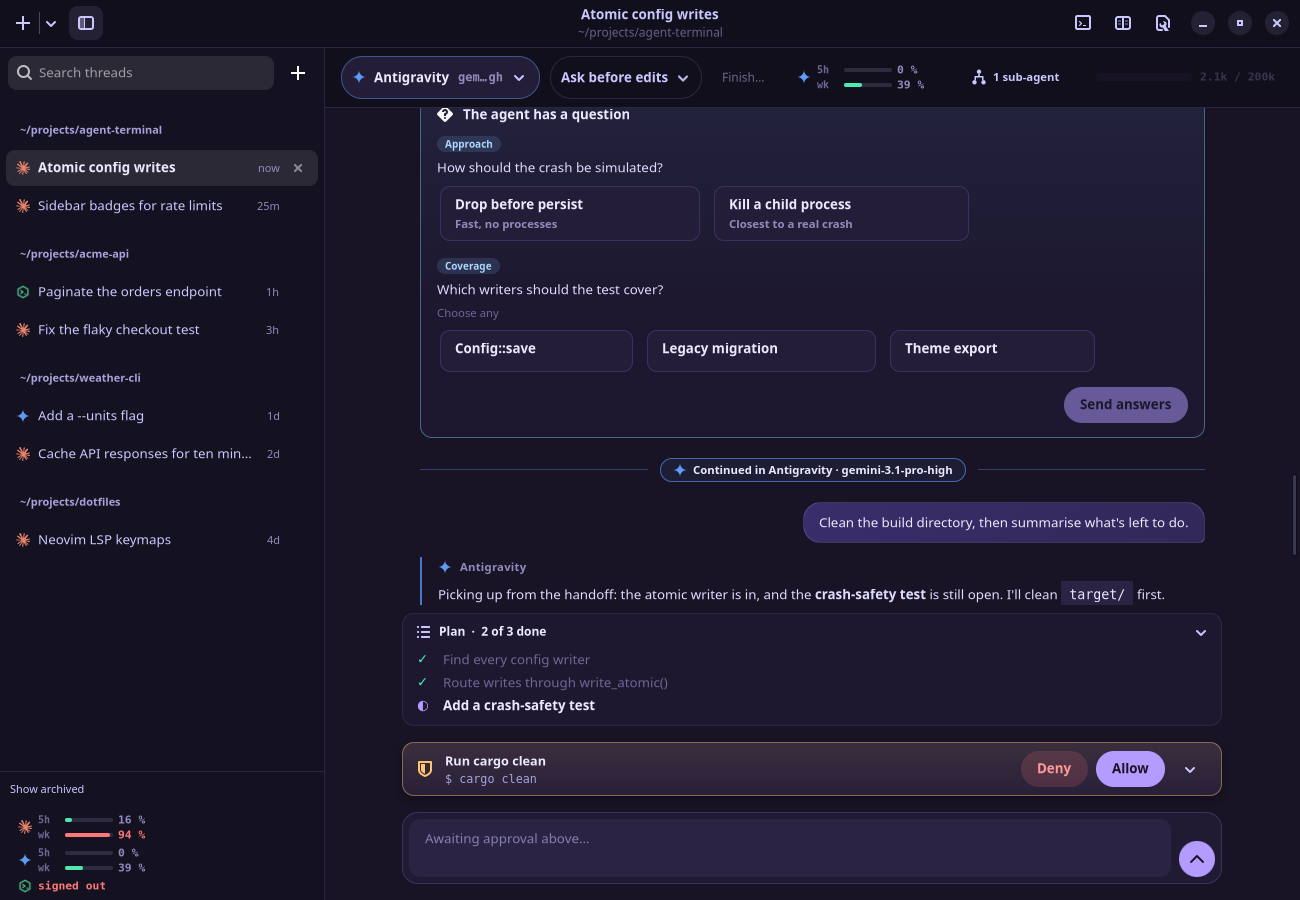
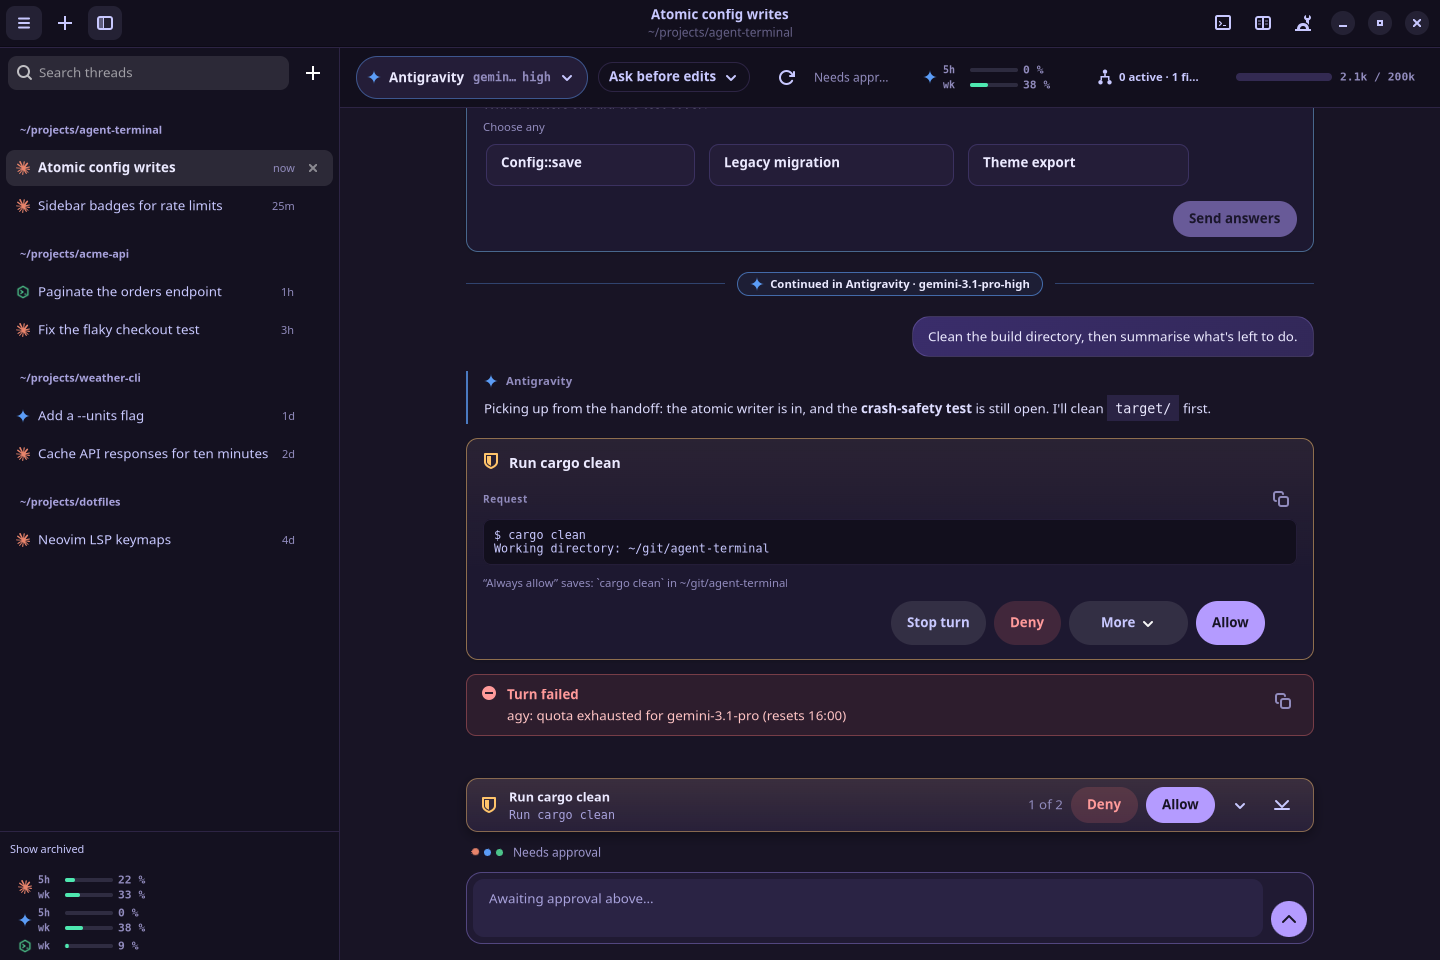
docs(readme): screenshot walkthrough for 3.3.0, approvals and rules
Retake every screenshot on the current design and replace the screenshot grid and quick start with a nine-step walkthrough. Document approval rules, queued prompts, quick replies, Codex requests and the target-branch diff base, and the new settings keys and rules file. The 3.3.0 notes cover the layout fix and the header change.

diff --git a/README.md b/README.md
@@ -9,7 +9,7 @@ A native Linux desktop app for working with AI coding agents. Claude Code, Antig
 A terminal is always one keystroke away. It's written in Rust with GTK4 and libadwaita,
 and it ships as a single binary.
 
-![A chat thread continued in Antigravity after Claude ran out of quota, with an approval waiting](docs/screenshots/chat.png)
+![The thread sidebar beside a chat continued in Antigravity, with a command waiting for approval](docs/screenshots/chat.png)
 
 > Agent Terminal is an independent project, not affiliated with Anthropic, Google or OpenAI.
 > It drives their command-line tools, which you install and sign in to yourself.
@@ -26,9 +26,8 @@ and it ships as a single binary.
 ## Contents
 
 - [Highlights](#highlights)
-- [Screenshots](#screenshots)
 - [Install](#install)
-- [Quick start](#quick-start)
+- [Walkthrough](#walkthrough)
 - [Features](#features)
 - [Command-line options](#command-line-options)
 - [Keyboard shortcuts](#keyboard-shortcuts)
@@ -52,8 +51,11 @@ and it ships as a single binary.
 - **One window for three agents.** Claude, Antigravity and Codex threads live in one
   sidebar, grouped by folder and searchable. Claude and agy sessions you already ran
   in those CLIs show up there too.
-- **You stay in control.** Inline approvals for commands and edits, a plan panel, and
-  questions the agent asks you as cards with answers to pick.
+- **You stay in control.** One approval card for every agent (Allow, Allow for session,
+  Always allow, Deny, Stop turn), a plan panel, and questions the agent asks you as cards
+  with answers to pick.
+- **Approval rules you own.** Session and always rules live in Agent Terminal, kept exactly
+  as you write them, and answer matching requests from Claude, Antigravity and Codex alike.
 - **Review your multi-agent setup.** One confirmed action opens a review in the exact
   work folder, with a scorecard, skill and MCP recommendations, and an ordered
   improvement guide.
@@ -62,17 +64,6 @@ and it ships as a single binary.
   Your branch, index and stash are never touched.
 - **Your desktop, your colours.** The bundled Agent Terminal theme, six classics, or
   **Use System Theme** to follow your desktop's GTK theme, light or dark.
-
-## Screenshots
-
-| | |
-|---|---|
-| ![Markdown, code and a table in a Claude reply](docs/screenshots/chat-markdown.png) | ![A model switch, a rate limit and a question card](docs/screenshots/chat-question.png) |
-| Replies render markdown, code and tables. | Model switches, rate limits, and questions with answers to pick. |
-| ![Settings: the theme list, Use System Theme first](docs/screenshots/settings-theme.png) | ![The window under Use System Theme on a light desktop](docs/screenshots/system-theme.png) |
-| Themes apply to the whole app, live. | **Use System Theme** on a light desktop. |
-| ![The first-start walkthrough](docs/screenshots/setup-welcome.png) | |
-| A first start walks you through your agents. | |
 
 ## Install
 
@@ -141,23 +132,105 @@ guarantee its enforcement outcome. The integration may work today, but that is n
 approval, assurance of compliance, or guarantee of future availability. Review the
 terms yourself and do not use this integration if they do not permit your intended use.
 
-## Quick start
+## Walkthrough
 
-1. **Launch Agent Terminal** from your app menu, or run `agent-terminal`.
-2. **The first start opens a short setup.** It shows which agents are installed,
-   lets you switch off any you don't use, and offers **Sign In…** for any agent nobody
-   is signed in to. It also asks which agent new threads start on. Run it again any
-   time from Settings → General → Setup.
-3. **Start a thread** with `Ctrl+Shift+T` (or the **+** button). It opens in the
-   current folder; **+** → New Thread in Existing Folder… picks another.
-4. **Type a request** and press Enter. Use `/` for commands, `@` to mention files and
-   `$` for skills. When the agent wants to run a command or edit a file, approve or
-   deny it inline. The mode picker in the thread's header switches between
-   **Ask before edits**, **Accept edits** and **Plan**.
-5. **See and undo changes.** `Ctrl+Shift+D` opens the diff panel. Its undo arrow puts
-   the last turn's changes back. `` Ctrl+` `` opens a shell in the thread's folder.
-6. **Using agy?** Install its [approval hook](#agys-approval-hook) so it asks before
-   it acts.
+The screenshots below come from the app's demo mode (`AGENT_TERMINAL_DEMO_THREADS=1`):
+scripted threads, no agent running.
+
+### 1. First start
+
+Launch Agent Terminal from your app menu, or run `agent-terminal`. The first start opens
+a short setup. It shows which agents are installed, lets you switch off any you don't use,
+offers **Sign In…** for any agent nobody is signed in to, and asks which agent new threads
+start on. Run it again any time from Settings → General → **Run Setup Again…**.
+
+![The welcome screen of the first-start setup](docs/screenshots/setup-welcome.png)
+
+### 2. Start a thread and ask
+
+Start a thread with `Ctrl+Shift+T` or the **+** button. It opens in the current folder;
+the menu (☰) → **New Thread in Existing Folder…** picks another, and **New Thread in
+Isolated Git Worktree…** gives the agent its own checkout. Type a request and press
+Enter. `/` lists commands, `@` mentions files and `$` picks skills. The mode picker
+beside the agent switches between **Ask before edits**, **Accept edits** and **Plan**.
+
+![The composer's typeahead listing slash commands](docs/screenshots/typeahead.png)
+
+### 3. Follow the work
+
+Replies render markdown, code and tables. Every tool call is a card with the same
+grammar for every agent (`Read <path>`, `Run <command>`, `Edit <path>`, `<server>/<tool>`),
+marked done, failed or declined, with its input, output and errors behind it. Reasoning,
+the plan and sub-agents each get their own block.
+
+| | |
+|---|---|
+| ![A Claude reply with a heading, a list, a code block and a table](docs/screenshots/chat-markdown.png) | ![Edit, Create and Run cards, one declined and one failed with its output](docs/screenshots/chat-tools.png) |
+| Markdown, code and tables. | Tool cards: done, declined and failed. |
+
+### 4. Approve, deny or make a rule
+
+When the agent wants to run a command or edit a file, an approval card shows exactly
+what it asks for. **Allow** answers once, **More** offers **Allow for session** and
+**Always allow**, **Deny** lets the agent see the refusal and carry on, and **Stop turn**
+ends the turn. A panel above the composer keeps the pending approval within reach while
+you scroll. See [Approvals and rules](#approvals-and-rules).
+
+![An approval card for cargo clean with More open on Always allow and Allow for session](docs/screenshots/approval.png)
+
+### 5. Answer questions, queue follow-ups
+
+Questions the agent asks come as cards with answers to pick. A prompt you send while a
+turn is running waits in a queue pinned under the reply and goes out when the turn ends;
+`Up` in an empty composer takes the last one back to edit.
+
+| | |
+|---|---|
+| ![A model switch, a rate-limit notice and a question card with two questions](docs/screenshots/chat-question.png) | ![A running reply with two queued prompts pinned under it](docs/screenshots/queue.png) |
+| Model switches, rate limits and a question. | Queued prompts. |
+
+### 6. Switch model or agent
+
+The chip at the left of the thread's header (or `/model`) opens one picker for every
+installed agent, with search and effort levels. Pick a model from another agent and the
+thread carries on there, with the conversation handed over. Models that Antigravity
+serves on Google's quota are marked *via Antigravity*. Usage for each agent sits beside
+the picker and at the foot of the sidebar. See
+[Switching agents](#switching-agents-mid-conversation).
+
+![The Model and Agent picker listing Antigravity and Claude models with effort levels](docs/screenshots/model-picker.png)
+
+### 7. When Codex needs more
+
+Codex can ask for access beyond its sandbox, and tool servers behind it can ask for
+details or a sign-in. Each request is a card that says exactly what is asked: what it
+would read or write, what stays blocked, whether it wants the network, and which host a
+link opens.
+
+| | |
+|---|---|
+| ![A Codex permission card listing places to read and write, what stays blocked, and network use](docs/screenshots/codex-permission.png) | ![A tool-server form with required fields, choices and checkboxes](docs/screenshots/codex-form.png) |
+| Extra access, for this turn or this session. | A tool server's form. |
+
+### 8. See and undo changes
+
+`Ctrl+Shift+D` opens the diff panel: uncommitted work, the last turn, everything since
+the thread opened, or the target branch. Its undo arrow puts the last turn's changes back,
+and the undo can itself be undone. `` Ctrl+` `` opens a shell in the thread's folder.
+See [Git safety net](#git-safety-net).
+
+### 9. Make it yours
+
+Settings (`Ctrl+,`) apply as you change them. Pick the bundled theme, one of six classics,
+or **Use System Theme** to follow your desktop, light or dark.
+
+| | |
+|---|---|
+| ![Settings → General with the theme list open](docs/screenshots/settings-theme.png) | ![The window under Use System Theme on a light desktop](docs/screenshots/system-theme.png) |
+| Themes apply to the whole app, live. | **Use System Theme** on a light desktop. |
+
+**Using Antigravity?** Install its [approval hook](#agys-approval-hook) so it asks
+before it acts.
 
 ## Features
 
@@ -235,6 +308,12 @@ A thread belongs to the work, not to an agent. At any point you can hand it to a
 - **Pending approvals stay within reach.** A panel above the composer keeps approval
   controls available while you scroll, with extra choices in a popover when the
   agent supports them. Pending questions offer a jump back to their answer card.
+- **Queued prompts.** A prompt sent while a turn is running waits, pinned at the bottom of
+  the transcript, and goes out when the turn ends. `Up` in an empty composer takes the
+  last one back for editing.
+- **Quick replies.** When a Codex or Antigravity reply ends with a question and a short
+  list of choices, the choices appear under it; one click puts the answer in the composer,
+  ready to send or edit. Turn them off from the replies themselves or in Settings → General.
 - **One model picker for every agent.** See
   [Switching agents](#switching-agents-mid-conversation). Models that agy serves on
   Google's quota are marked *via Antigravity*.
@@ -242,13 +321,43 @@ A thread belongs to the work, not to an agent. At any point you can hand it to a
   foot of the sidebar, and update every turn.
 - `/rewind` undoes the last turn's changes.
 
+### Approvals and rules
+
+- **One card for every agent.** **Allow** (once), **Allow for session**, **Always allow**,
+  **Deny** and **Stop turn** mean the same thing for Claude, Antigravity and Codex. Deny
+  lets the agent see the refusal and continue; Stop turn ends the turn.
+- **Rules live in Agent Terminal**, in `~/.local/state/agent-terminal/approval-rules.json`,
+  and answer matching requests from every agent. Always rules match across agents by kind:
+  a shell command, one file inside the workspace, or one MCP tool. Session rules end when
+  the thread switches agent, and the switch notice says how many ended.
+- **Your rules mean what you write.** `git *` covers every git command and `cargo test *`
+  every `cargo test`. When a rule allows more than reading (a program that runs code, an
+  option such as `git -c`, a file outside the workspace), a notice says so when it is kept.
+  A command with shell syntax (`;`, `&&`, `|`, `$(`, redirection, …) never matches a rule,
+  and a secret is never written into one.
+- **Allow for session on a read covers the next read.** For read-only programs (`ls`,
+  `cat`, `grep`, `rg`, `git status`/`log`/`diff`, …) the session grant keeps the program
+  for the workspace, as long as every path it names stays inside it and away from `.git`,
+  secret-looking files and home dotfiles.
+- **Import and export.** Settings → Agents imports the rules your agents already have
+  (Claude, Antigravity, Codex's `~/.codex/rules` and any permission files you list) and
+  exports Agent Terminal's global rules back. **View Differences…** shows what is not yet
+  in step. **Manage Rules…** lists the saved rules, and removes any you no longer want.
+- **Codex requests.** When Codex asks for extra filesystem or network access, the card
+  lists exactly what it asks for. A session grant is offered only for places Codex cannot
+  rename later, and never covers the filesystem root, your home folder or a project's
+  settings. A header chip shows extra access while it lasts. Tool-server forms and sign-in
+  links become cards too; nothing is sent or opened until you choose.
+- **Secrets are masked** in approval cards, tool cards, questions and notices, not only in
+  the store.
+
 ### Git safety net
 
 - **Turn checkpoints**: in a git repository, the working tree is snapshotted into
   hidden refs when a turn ends. Your branch, index and stash stay as they were.
   See [Turn checkpoints](#turn-checkpoints).
-- **Diff panel** (`Ctrl+Shift+D`): uncommitted work, the last turn, or everything since
-  the thread opened. Open any file in your own diff tool. See [Diff panel](#diff-panel).
+- **Diff panel** (`Ctrl+Shift+D`): uncommitted work, the last turn, everything since
+  the thread opened, or the target branch. Open any file in your own diff tool. See [Diff panel](#diff-panel).
 - **Undo a turn**, which saves the current state first, so the undo can itself be undone.
   See [Undoing a turn](#undoing-a-turn).
 - **Worktrees** (`Ctrl+Shift+G`): a new branch in its own checkout, so an agent can
@@ -316,7 +425,7 @@ agent-terminal --resume <id> --dir ~/git/some-project
 |---|---|
 | `RUST_LOG` | Log level and filters (default `info`). |
 | `XDG_CONFIG_HOME` | Where `agent-terminal/config.json` lives (default `~/.config`). Point it at a scratch folder to run an isolated copy. |
-| `XDG_STATE_HOME` | Where the thread store, hand-off briefs and agy's always-allow rules live (default `~/.local/state`). |
+| `XDG_STATE_HOME` | Where the thread store, hand-off briefs and approval rules live (default `~/.local/state`). |
 | `AGENT_TERMINAL_HOOK_BIN` | The binary agy's approval hook runs (default `agent-terminal` on `PATH`). |
 | `AGENT_TERMINAL_DEMO_THREADS` | Set to `1` for demo threads in place of yours (in memory, no agents run). |
 
@@ -357,7 +466,7 @@ can only be set there: profiles, status indicators and the cleared environment.
 | `~/.config/agent-terminal/config.json` | Settings, profiles, indicators. Written atomically, `0600`. |
 | `~/.local/state/agent-terminal/threads.db` | The thread store (SQLite). Every stored event is redacted. |
 | `~/.local/state/agent-terminal/handoffs/` | Hand-off briefs: `0700` folder, `0600` files, pruned after 7 days. |
-| `~/.local/state/agent-terminal/always-allow.json` | agy actions you chose to always allow, per folder. |
+| `~/.local/state/agent-terminal/approval-rules.json` | Approval rules (session and always) for every agent. Written `0600`. |
 
 A settings file that can't be parsed is copied aside (`config.json.invalid-…`) and
 reported before defaults replace it. An edit that doesn't parse yet suspends saving
@@ -381,6 +490,10 @@ until it is fixed.
 | `reopen_last_thread` | `false` | Start with the threads open at the last close |
 | `restore_session` | `false` | Reopen the last terminal threads, as fresh sessions |
 | `skip_load_animation` | `false` | Show the window as soon as it is ready |
+| `pattern_auto_approval` | `true` | Answer requests that match a saved approval rule without asking |
+| `confirm_rule_modification` | `true` | Confirm, or loosen, a rule's pattern when choosing Always allow |
+| `permission_sources` | `[]` | Extra `permissions.toml`-style files that import reads and export writes (absolute or `~/`) |
+| `suggest_quick_replies` | `true` | Offer quick replies under a Codex or Antigravity reply that ends with a question |
 | `font`, `font_scale` | JetBrains Mono 11, `1.0` | Terminal font and zoom |
 | `cursor_shape`, `cursor_blink` | `block`, `true` | Terminal cursor |
 | `scrollback_lines` | `10000` | Terminal scrollback |
@@ -591,6 +704,7 @@ unified diff. The dropdown picks what to compare against:
 | **Uncommitted** | HEAD against the working tree now, untracked files included |
 | **Last turn** | What the thread's latest checkpoint changed |
 | **This thread** | Everything since the state the thread's first checkpoint was taken on top of |
+| **Target branch** | Every change against the primary branch (`origin/HEAD`, `main` or `master`) |
 
 The panel refreshes when it opens, when a checkpoint is taken, when the base changes,
 and on its refresh button. It never polls. Git's external diff and textconv drivers

diff --git a/docs/releases/v3.3.0.md b/docs/releases/v3.3.0.md
@@ -40,6 +40,8 @@ Agent Terminal 3.3.0 makes Claude, Antigravity and Codex threads look and behave
 - **Credentials on the command line** (`curl -u`, `Authorization:` headers, `user:pass@` URLs, password options) are masked in what you see and never become a rule.
 - **Compact, continue and fork keep the thread's mode** (and fork its model) instead of adopting the profile default.
 - Toasts appear over the transcript and never cover the composer; the header hides its activity text at narrow widths.
+- **Usage stays in a narrower header.** As the thread narrows, the header now drops the activity's words before the usage meter (the spinner stays, with the words in its tooltip); the meter goes only with the context gauge.
+- **The restart button says what it does.** Its tooltip explains that it stops the thread's agent process and starts it again on the same conversation, and when to use it.
 - **Header Button Layout**: the quick thread creation button (+) is separate from the main menu, with the menu button first.
 - **Branding Consistency**: all user-facing references say "Antigravity" across preferences, menus and status surfaces.
 - **Menu Simplification**: duplicate thread creation options are gone from the bottom of the main menu.
@@ -63,6 +65,7 @@ Agent Terminal 3.3.0 makes Claude, Antigravity and Codex threads look and behave
 - Codex permission requests and tool-server forms are no longer refused outright with a notice.
 - **Codex commands in a login shell outside `/bin` and `/usr/bin` match your rules.** Codex wraps every command in your own shell; with that shell under Linuxbrew, Nix or `/usr/local`, the wrapper was never unwrapped, so no rule ever matched and Allow for session asked again every time. Your login shell from passwd (and the file it links to) now unwraps like a system shell, by its exact path only.
 - **Continue in another agent when Claude hits its limit**: "You've hit your session limit · resets …" now raises the rate-limit banner and its "Continue in …" button every time. Before, Claude's wording was not recognised, a retry the limit refused raised nothing, and a turn Claude started on its own straight after the limit hid the banner. The banner now stays until the agent actually answers again.
+- **The thread sidebar sits beside the thread again, and the header keeps its Changes and Terminal Drawer buttons.** The window read its own width once, before it had one, so the sidebar always overlaid the thread (closing whenever you picked a thread) and the two header buttons were hidden at every size. Both now follow the window's real size as it is resized, maximised or restored.
 - **Antigravity Diff Fallback**: "No diff is available for this edit" no longer appears; new and untracked files get a diff against an empty baseline read from disk, and relative paths resolve against the thread's folder.
 
 ## Upgrade and install
